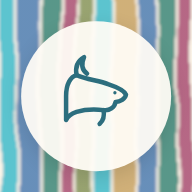
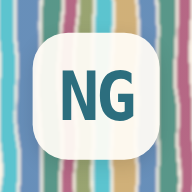
Drop the goat mark; back to a simple NG monogram
Removed the illustrated goat everywhere it was added -- sidebar
brand-mark, manual masthead, and phone icon -- back to plain 'Note Goat'
text in the app UI, and the phone icon is now the stripe background with
a simple 'NG' monogram badge instead of an illustration.

Claude-Session: https://claude.ai/code/session_01H7MThUuqV7NYwyJ2DwAc8r

diff --git a/index.html b/index.html
@@ -104,9 +104,8 @@ h1,h2,h3{margin:0;}
 .brand-mark{
   font-size:17px;font-weight:700;letter-spacing:-0.01em;
   background:rgba(255,252,245,0.82);backdrop-filter:blur(4px);
-  display:inline-flex;align-items:center;gap:7px;padding:3px 10px 3px 6px;border-radius:7px;
+  display:inline-block;padding:3px 9px;border-radius:7px;
 }
-.goat-mark{width:20px;height:20px;color:var(--accent);flex-shrink:0;}
 .brand-sub{font-family:var(--font-mono);font-size:10px;color:var(--ink-dim);margin-top:5px;text-transform:uppercase;letter-spacing:0.06em;
   background:rgba(255,252,245,0.82);display:inline-block;padding:2px 8px;border-radius:6px;}
 
@@ -317,17 +316,7 @@ table.record-table td.actions{white-space:nowrap;width:1%;}
     <div class="brand">
       <div class="brand-watercolor"></div>
       <div class="brand-inner">
-        <div class="brand-mark">
-          <svg class="goat-mark" viewBox="0 0 32 32" fill="none" xmlns="http://www.w3.org/2000/svg" aria-hidden="true">
-            <g stroke="currentColor" stroke-width="1.5" stroke-linecap="round" stroke-linejoin="round">
-              <path d="M6 24 L6 16 C6 12 7.5 9.5 9.5 9 C13 10.5 17 10.8 20 12 C23 13 25.5 14.3 26 15.5 C25.8 17 24 18 22.5 18 C22.2 19.8 20.5 21 18.5 20.7 C15 20.3 11.8 20.6 9.5 21.3 C7.5 22 6.5 22.9 6 24 Z"/>
-              <path d="M18.5 20.7 C18.9 22.8 18.3 24.3 17.2 25.3"/>
-              <path d="M9.5 9 C9 6.5 9.8 4.3 12 3 C11 5.3 11.3 7.3 13 8.5"/>
-              <circle cx="22.3" cy="14.9" r="0.55" fill="currentColor" stroke="none"/>
-            </g>
-          </svg>
-          Note Goat
-        </div>
+        <div class="brand-mark">Note Goat</div>
         <div class="brand-sub">local &amp; private</div>
       </div>
     </div>
@@ -2198,8 +2187,7 @@ body{margin:0;background:var(--ground);color:var(--text);font-family:var(--sans)
   background:linear-gradient(rgba(255,255,255,0.15),rgba(255,255,255,0.15)),
   repeating-linear-gradient(90deg,#2FB4C2 0 22px,#3E6FA6 22px 50px,#2C7A68 50px 74px,#A13E63 74px 92px,#7C8A4A 92px 112px,#C39A52 112px 140px);}
 .eyebrow{font-family:var(--mono);font-size:11px;letter-spacing:0.1em;text-transform:uppercase;color:var(--accent);margin:0 0 8px;}
-.masthead h1{font-family:var(--mono);font-size:28px;margin:0 0 10px;display:flex;align-items:center;gap:10px;}
-.masthead h1 svg{width:30px;height:30px;color:var(--accent);flex-shrink:0;}
+.masthead h1{font-family:var(--mono);font-size:28px;margin:0 0 10px;}
 .lede{color:var(--text2);max-width:64ch;margin:0 0 16px;}
 .factrow{display:flex;flex-wrap:wrap;gap:8px 18px;font-family:var(--mono);font-size:12px;color:var(--text2);}
 .factrow b{color:var(--text);font-weight:600;}
@@ -2228,17 +2216,7 @@ footer{margin-top:20px;padding-top:20px;border-top:1px solid var(--line);color:v
   <header class="masthead">
     <div class="stripe"></div>
     <p class="eyebrow">User manual</p>
-    <h1>
-      <svg viewBox="0 0 32 32" fill="none" xmlns="http://www.w3.org/2000/svg" aria-hidden="true">
-        <g stroke="currentColor" stroke-width="1.5" stroke-linecap="round" stroke-linejoin="round">
-          <path d="M6 24 L6 16 C6 12 7.5 9.5 9.5 9 C13 10.5 17 10.8 20 12 C23 13 25.5 14.3 26 15.5 C25.8 17 24 18 22.5 18 C22.2 19.8 20.5 21 18.5 20.7 C15 20.3 11.8 20.6 9.5 21.3 C7.5 22 6.5 22.9 6 24 Z"/>
-          <path d="M18.5 20.7 C18.9 22.8 18.3 24.3 17.2 25.3"/>
-          <path d="M9.5 9 C9 6.5 9.8 4.3 12 3 C11 5.3 11.3 7.3 13 8.5"/>
-          <circle cx="22.3" cy="14.9" r="0.55" fill="currentColor" stroke="none"/>
-        </g>
-      </svg>
-      Note Goat
-    </h1>
+    <h1>Note Goat</h1>
     <p class="lede">A single-file, browser-only, domain-agnostic personal organizer — appointments, doctors, medications, tasks, notes, files, or whatever you build a module for.</p>
     <div class="factrow">
       <span><b>Runs</b>&nbsp;entirely in your browser</span>
